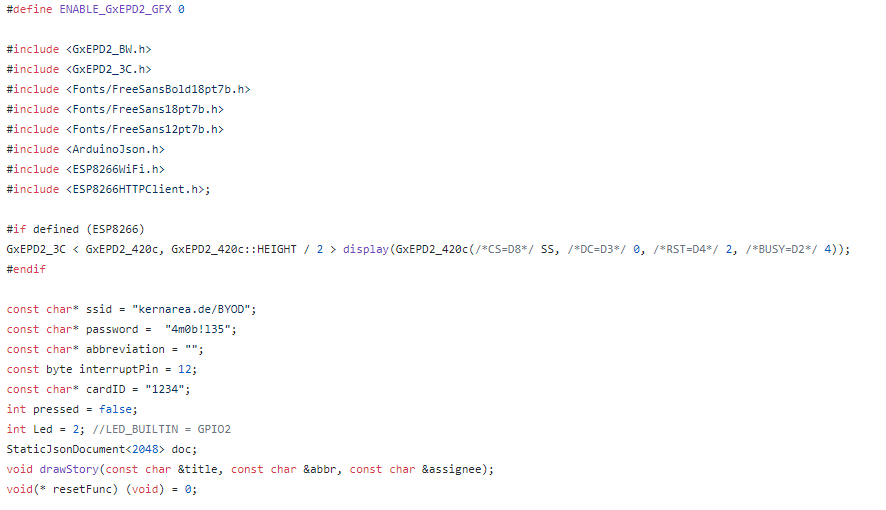
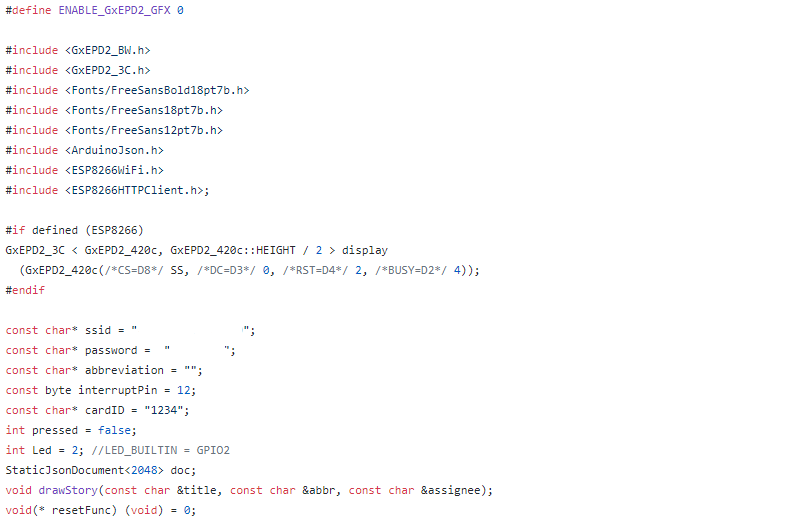
[DOC] Finalizing logic for story with screenshots

diff --git a/Dokumente/Dokumentation.tex b/Dokumente/Dokumentation.tex
@@ -309,14 +309,14 @@ Im Prototyp werden die Karten mit Schalter ausgestattet. Das stellt jedoch keine
 			Das Display muss zu Beginn initialisiert werden, hierzu werden einige frei wählbare Pins übergeben. Darüber hinaus werden globale Variablen für die WLAN-Verbindung, den Button und Interrupt-Pin festgelegt, wie beim Terminal. Die Karte erhält zusätzlich eine eigene ID. Diese ist nötig, um vom Server erkannt und identifiziert zu werden. Da die Abkürzung der Story aus verschiedenen Methoden aufgerufen wird, wird sie global deklariert und beim Laden einer Story befüllt. Ebenfalls wird ein JSON-Objekt initiiert und 2048 Byte für dieses reserviert. Zusätzlich wird die Methode zum Zeichnen von Stories und zum Neustart des Boards deklariert. \\
 		\begin{figure}[H] 
   			\centering
-    		\includegraphics[height=0.4\textheight]{storyHead}
+    		\includegraphics[height=0.5\textheight]{storyHead}
   			\caption{Terminalcode mit Instanzierung von globalen Variablen. Hinweis: SSID und Passwort des Drahtlosnetzwerkes wurden aus datenschutzrechtlichen Gründen entfernt.}
   			\label{fig:storyHead}
 		\end{figure}
 		\noindent Auch für die Karte wird zu Beginn eine serielle Verbindung zum Logging hergestellt, der Interrupt-Pin definiert und eine WLAN-Verbindung aufgebaut. Bereits in der setup-Methode wird ein GET-Request an den Server gesendet. In diesem Request übergibt die Karte ihre ID an den Server und fragt an, ob im JIRA eine Story für die Karte hinterlegt ist. Der genaue Prozess seitens des JIRA wird in Kapitel XX erläutert. Die empfangenen Daten werden in der zuvor beschriebenen JSON-Variablen gespeichert. Ein Beispiel für eine solche JSON-Struktur findet sich in Anhang //XYZ//. \\
 		\begin{figure}[H] 
   			\centering
-    		\includegraphics[height=0.6\textheight]{storySetup}
+    		\includegraphics[height=0.5\textheight]{storySetup}
   			\caption{Kartencode der Setup-Methode}
   			\label{fig:storySetup}
 		\end{figure}
